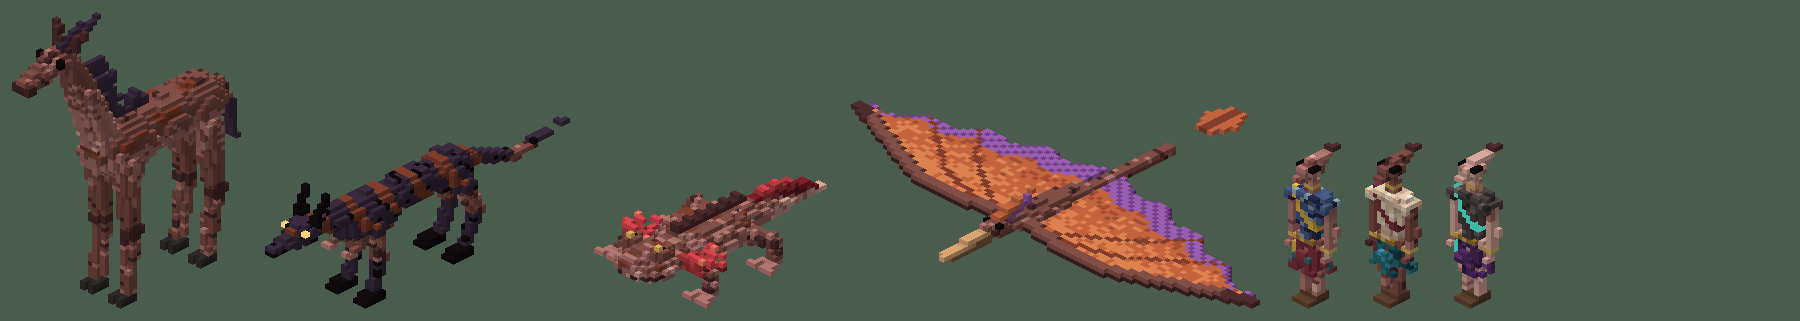
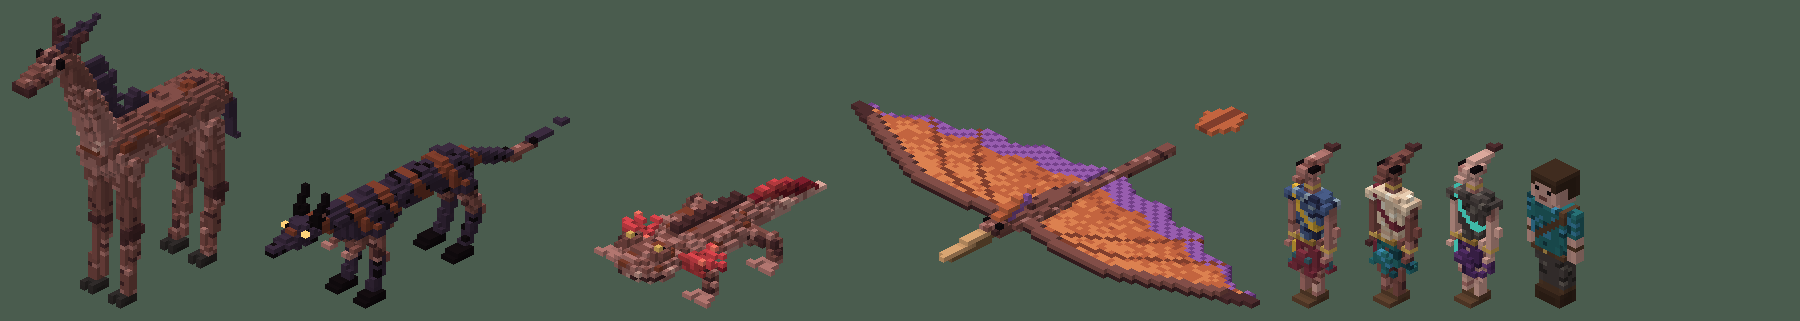
Add a human body to the character maker and the stranded player model
Claude-Session: https://claude.ai/code/session_01WQZguedPHMoX1qWnPfoyL1

Changed region(s): [[0.84, 0.4984, 0.9022, 0.9657]]

diff --git a/tools/art/creatures.py b/tools/art/creatures.py
@@ -376,7 +376,71 @@ def _vaari(tunic, skirt, sash, skin_level, seed):
     return parts, {"parts": rig, "clips": clips}
 
 
+def _human(tunic, trousers, sash, skin_key, hair_key, seed):
+    """Earth-born human (about 1.75 m): shorter and sturdier than a Vaari. The stranded player."""
+    skin = flat(skin_key)
+    torso = Vox()
+    torso.box(-4, 13, -2, 3, 23, 1, ramp(*tunic, 0.3, seed + 1))                   # chest and belly
+    for (x, z) in ((-4, -2), (3, -2), (-4, 1), (3, 1)):
+        torso.box(x, 13, z, x, 15, z, flat("ink_1"))
+        torso.erase(x, 13, z), torso.erase(x, 14, z), torso.erase(x, 15, z)
+    torso.box(-4, 12, -2, 3, 12, 1, flat("wood_2"))                                # belt
+    torso.set(-1, 12, -2, flat("bronze_3"))
+    torso.repaint(flat(sash), lambda x, y, z: 13 <= y <= 23 and abs((x + 0.5) * 1.1 - (y - 18)) < 1.2)   # strap
+    torso.box(-1, 24, -1, 0, 24, 0, skin)                                          # neck
+    torso.box(-3, 10, -2, 2, 11, 1, ramp(*trousers, 0.3, seed + 2))                # hips
+
+    head = Vox()
+    head.box(-3, 25, -3, 2, 30, 2, skin)
+    for (x, z) in ((-3, -3), (2, -3), (-3, 2), (2, 2)):
+        head.erase(x, 25, z), head.erase(x, 30, z)
+    head.box(-3, 29, -3, 2, 31, 2, flat(hair_key))                                 # hair
+    head.box(-3, 26, 0, 2, 28, 2, flat(hair_key))
+    head.box(-2, 31, -2, 1, 31, 1, flat(hair_key))
+    head.box(-2, 29, -3, 1, 29, -3, skin)                                          # forehead
+    for x in (-2, 1):
+        head.set(x, 28, -3, flat("ink_1"))
+    head.set(-1, 26, -3, flat("hide_2")), head.set(0, 26, -3, flat("hide_2"))
+
+    parts = [("torso", torso), ("head", head)]
+    rig = {"torso": {"parent": "", "pivot": [0, 12, 0]},
+           "head": {"parent": "torso", "pivot": [0, 25, 0]}}
+    for name, s in (("l", -1), ("r", 1)):
+        x0 = -6 if s < 0 else 4
+        arm = Vox()
+        arm.box(x0, 18, -1, x0 + 1, 23, 0, ramp(*tunic, 0.3, seed + 3))            # sleeve
+        arm.box(x0, 12, -1, x0 + 1, 17, 0, skin)
+        arm.box(x0, 15, -1, x0 + 1, 15, 0, flat("wood_2"))                         # wrist wrap
+        lx = -3 if s < 0 else 0
+        leg = Vox()
+        leg.box(lx, 3, -1, lx + 2, 10, 1, ramp(*trousers, 0.3, seed + 4))
+        leg.box(lx, 0, -2, lx + 2, 2, 1, flat("wood_1"))                           # boot
+        leg.box(lx, 3, -1, lx + 2, 3, 1, flat("wood_2"))
+        parts += [(f"arm_{name}", arm), (f"leg_{name}", leg)]
+        rig[f"arm_{name}"] = {"parent": "torso", "pivot": [x0 + 1, 23, 0]}
+        rig[f"leg_{name}"] = {"parent": "torso", "pivot": [lx + 1.5, 10, 0]}
+    clips = {
+        "idle": [bob("torso", 0.2, 0.28), rot("head", "y", 9, 0.1), rot("arm_l", "x", 3, 0.28), rot("arm_r", "x", 3, 0.28, 0.5)],
+        "walk": [rot("leg_l", "x", 30, 1.1), rot("leg_r", "x", 30, 1.1, 0.5), rot("arm_l", "x", 24, 1.1, 0.5),
+                 rot("arm_r", "x", 24, 1.1), bob("torso", 0.45, 2.2)],
+        "run": [rot("leg_l", "x", 48, 1.9), rot("leg_r", "x", 48, 1.9, 0.5), rot("arm_l", "x", 40, 1.9, 0.5, 20),
+                rot("arm_r", "x", 40, 1.9, 0, 20), rot("torso", "x", 2, 1.9, 0, -8), bob("torso", 0.8, 3.8)],
+        "swing": [rot("arm_r", "x", 70, 1.6, 0, 60), rot("torso", "y", 12, 1.6, 0.1)],
+    }
+    return parts, {"parts": rig, "clips": clips}
+
+
 def character(spec):
+    if spec.get("body") == "human":
+        def pair(value):
+            name, _, level = value.partition(":")
+            return (name, int(level or 2))
+        return _human(pair(spec["tunic"]), pair(spec["skirt"]), spec["sash"], spec.get("skin_key", "hide_4"),
+                      spec.get("hair", "wood_1"), int(spec.get("seed", 10)))
+    return _character_vaari(spec)
+
+
+def _character_vaari(spec):
     """Builds a Vaari from a row of tools/art/characters.json (see make_character.py)."""
     def split(value):
         name, _, level = value.partition(":")

diff --git a/tools/art/make_character.py b/tools/art/make_character.py
@@ -1,7 +1,8 @@
 #!/usr/bin/env python3
-"""Small character maker: outfits a Vaari from the Aruun palette and adds it to the game.
+"""Small character maker: outfits a Vaari or a human from the Aruun palette and adds it to the game.
 
     python3 tools/art/make_character.py lyceum_warden --tunic stone:2 --skirt violet:2 --sash glow_teal --skin 4
+    python3 tools/art/make_character.py scout --body human --tunic green:3 --skirt wood:2 --hair ink_1
     python3 tools/art/make_character.py --colours        # list what you can pick from
 
 It writes content/models/creatures/<id>.vox (rigged: torso, head, arms, legs; clips idle,
@@ -28,6 +29,9 @@ def main():
     ap.add_argument("--skirt", default="cloth:1", help="ramp:level for the lower garment")
     ap.add_argument("--sash", default="cloth_mustard", help="palette key for the sash")
     ap.add_argument("--skin", type=int, default=3, choices=(1, 2, 3, 4), help="hide ramp level, 1 dark to 4 pale")
+    ap.add_argument("--body", default="vaari", choices=("vaari", "human"))
+    ap.add_argument("--skin-key", default="hide_4", help="humans only: palette key for skin, e.g. hide_4, sandstone_3, wood_3")
+    ap.add_argument("--hair", default="wood_1", help="humans only: palette key for hair")
     ap.add_argument("--seed", type=int, default=None, help="changes the cloth weave and ragged hem")
     ap.add_argument("--colours", action="store_true", help="list ramps and keys, then exit")
     args = ap.parse_args()
@@ -46,6 +50,7 @@ def main():
     path = HERE / "characters.json"
     data = json.loads(path.read_text())
     row = {"id": args.id, "tunic": args.tunic, "skirt": args.skirt, "sash": args.sash, "skin": args.skin,
+           "body": args.body, "skin_key": args.skin_key, "hair": args.hair,
            "seed": args.seed if args.seed is not None else sum(map(ord, args.id)) % 97}
     data["characters"] = [c for c in data["characters"] if c["id"] != args.id] + [row]
     path.write_text(json.dumps(data, indent=2) + "\n")

diff --git a/docs/art/README.md b/docs/art/README.md
@@ -72,7 +72,8 @@ terrain), `value_jitter`, `roughness`, `metallic`, `emission_energy`.
   `models.json` (`file`, `category`, `voxel_m`).
 - **From a free pack or a friend:** `python3 tools/art/import_vox.py file.vox --id name --category props --credit "..." --license CC0`
   recolours it to the palette and registers it. See `FREE_ASSETS.md`.
-- **A new person:** `python3 tools/art/make_character.py warden --tunic stone:2 --skirt violet:2 --sash glow_teal --skin 4`.
+- **A new person:** `python3 tools/art/make_character.py warden --tunic stone:2 --skirt violet:2 --sash glow_teal --skin 4`
+  (add `--body human` for an Earth human like the player, `human_castaway`).
 - **The starter set** is generated by Python scripts in `tools/art/` (`props.py`, `flora.py`,
   `items.py`, `creatures.py`, `structures.py`). `python3 tools/art/build.py` rebuilds models,
   icons and the preview pictures above. Needs Python 3 and Pillow.
